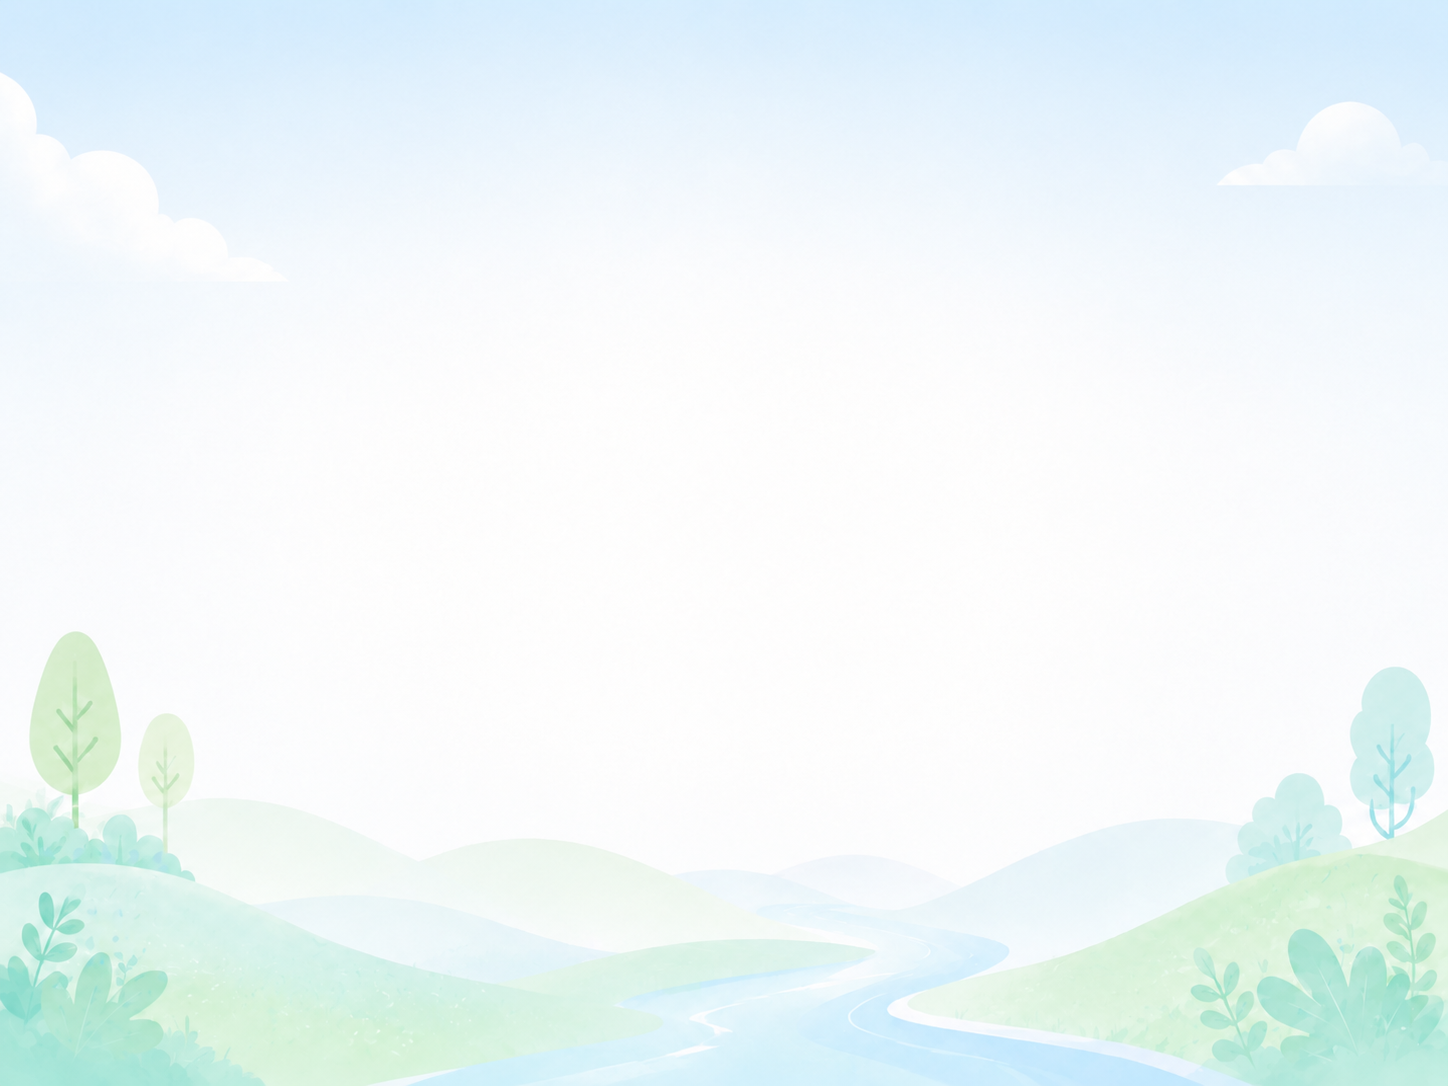
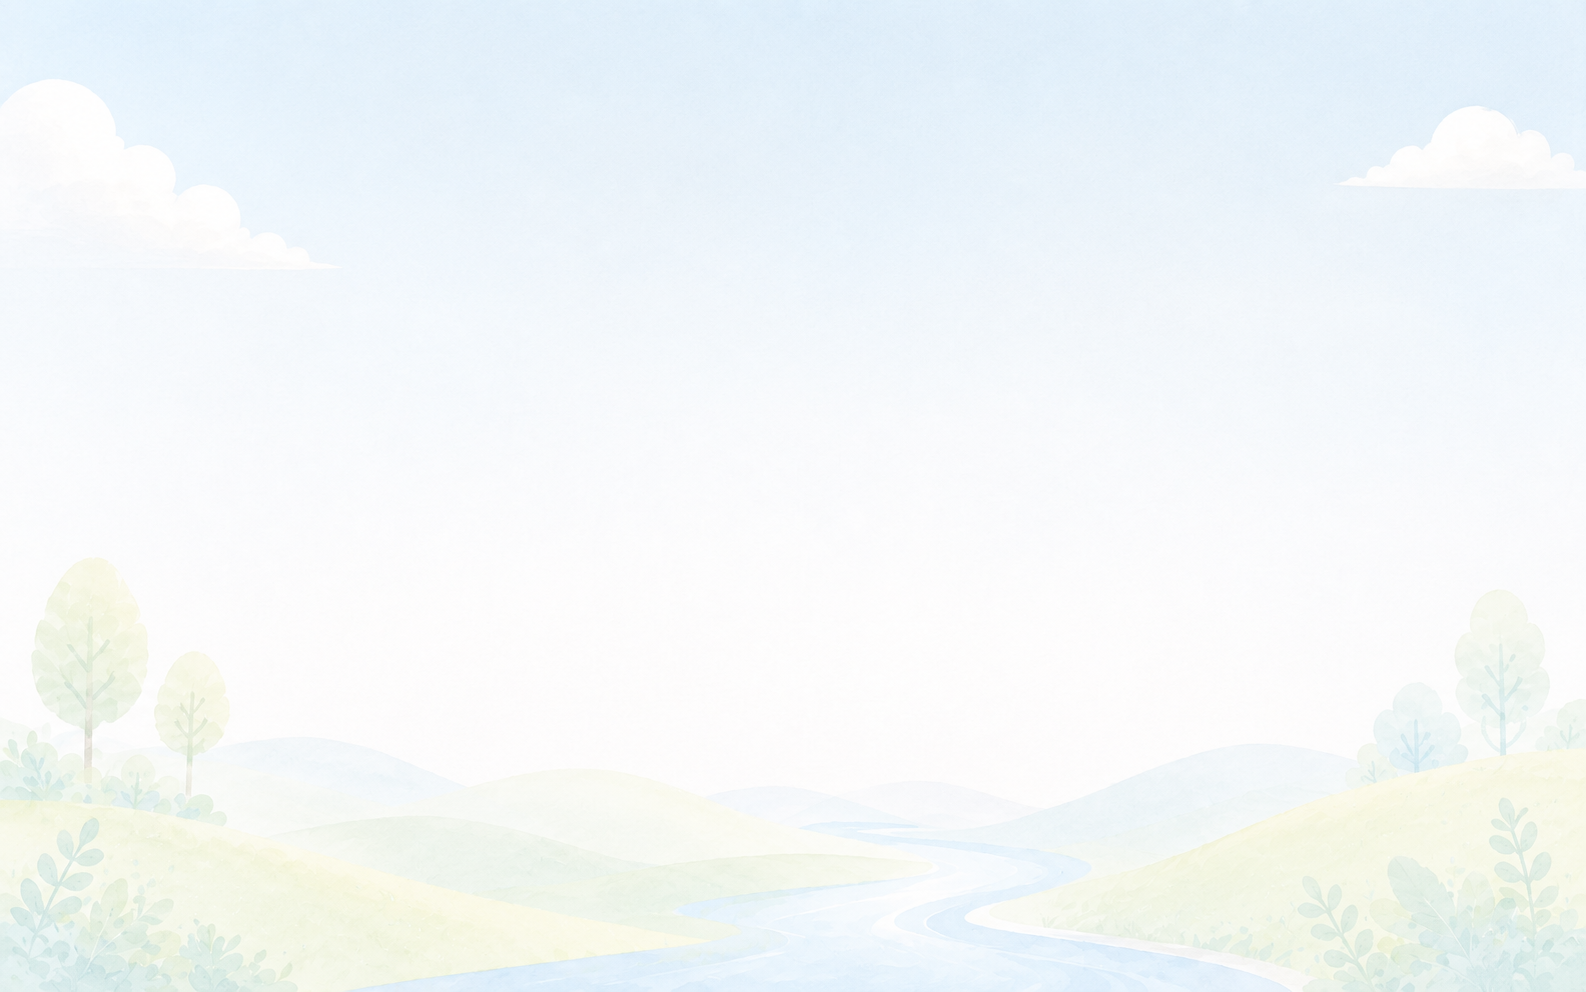
update

diff --git a/glops/index.html b/glops/index.html
@@ -335,7 +335,7 @@
     }
 
     [fons_normal]{
-      background:url(img/sady/fons.webp);
+      background:url(img/pau/fons.webp);
       background-repeat:no-repeat;
       background-position:center;
       background-size:cover;
@@ -453,7 +453,7 @@
   <!--portada-->
   <div v-if="vista_actual=='portada'" center
     style="
-      background:url(img/sady/portada.webp);
+      background:url(img/pau/portada.webp);
       background-repeat:no-repeat;
       background-size:cover;
       background-position:center;
@@ -518,16 +518,19 @@
           </div>
         </div>
       </button>
+    </div>
 
-      <!--boto pantalla completa-->
-      <div style="margin-top:1em" v-if="1">
-        <button
-          onclick="toggle_pantalla_completa()"
-          style="padding:0.5em 2em"
-        >
-          activar pantalla completa
-        </button>
+    <!--logo fcri-->
+    <div style="
+      display:grid;
+      grid-template-columns:1fr 1fr 1fr;
+      margin-top:-25vh;
+    ">
+      <div></div>
+      <div>
+        <img src="img/logos/fcri.png" style="width:300px">
       </div>
+      <div></div>
     </div>
   </div>
 
@@ -810,47 +813,6 @@
             </div>
           </div>
         </div>
-      </div>
-    </div>
-  </div>
-
-  <!--eliminat-->
-  <div v-if="vista_actual=='comencem'" center>
-    <div
-      style="
-        background:url(img/sady/portada.webp);
-        background-repeat:no-repeat;
-        background-size:cover;
-        background-position:center;
-        height:100vh;
-        margin:auto;
-      "
-    >
-      <div
-        style="
-          position:relative;
-          top:40vh;
-        "
-      >
-        <button
-          @click="vista_actual='infografia_quina_aigua_bevem'"
-          boto_comencem
-        >
-          COMENCEM
-          <!--fletxa verda-->
-          <span
-            style="
-              display:inline-block;
-              background:white;
-              color:var(--verd_intens);
-              border-radius:50%;
-              width:64px;
-              padding:5px;
-              margin-left:10px;
-            "
-          >&#10140;
-          </span>
-        </button>
       </div>
     </div>
   </div>
